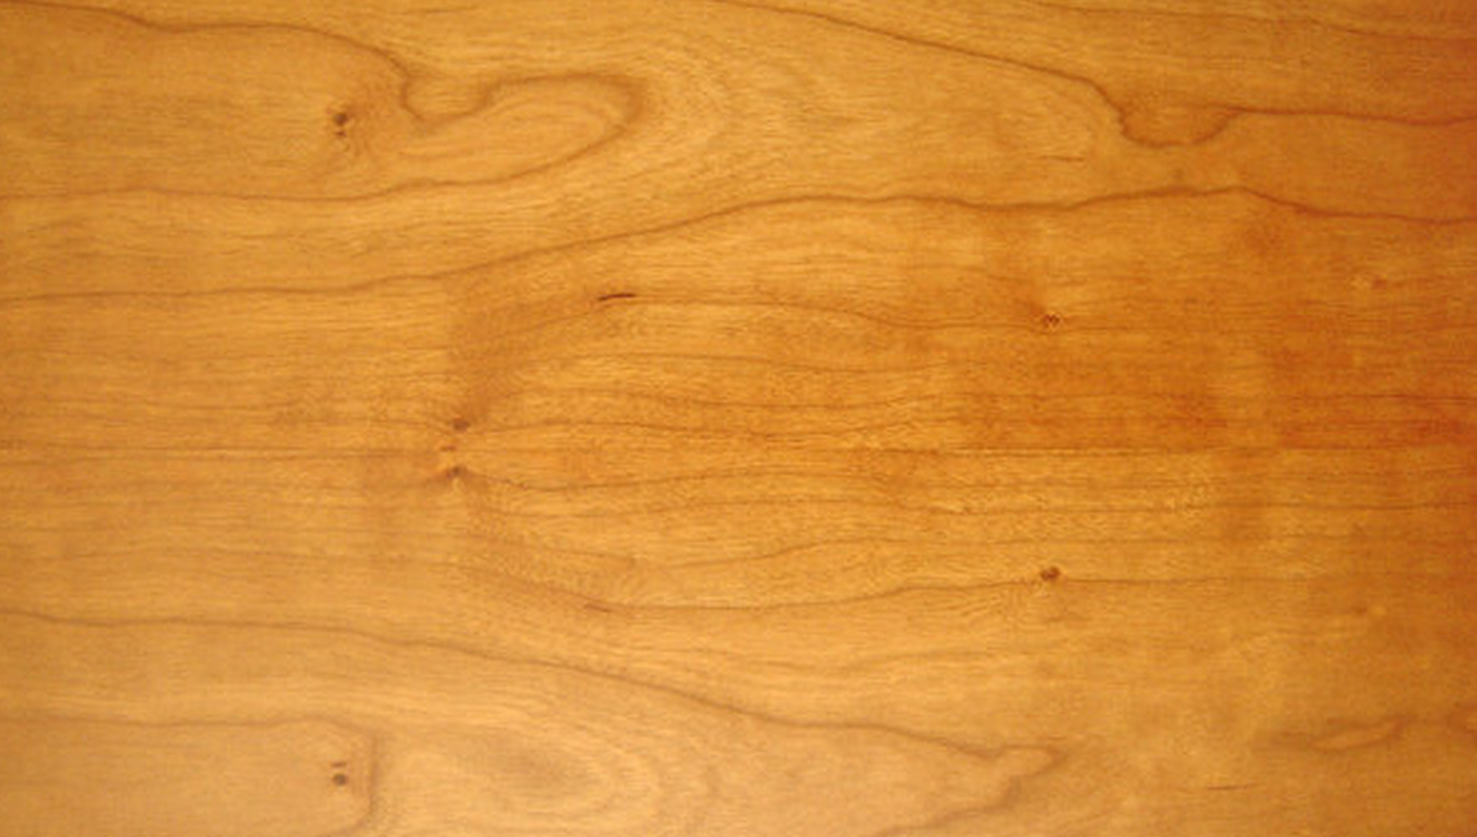
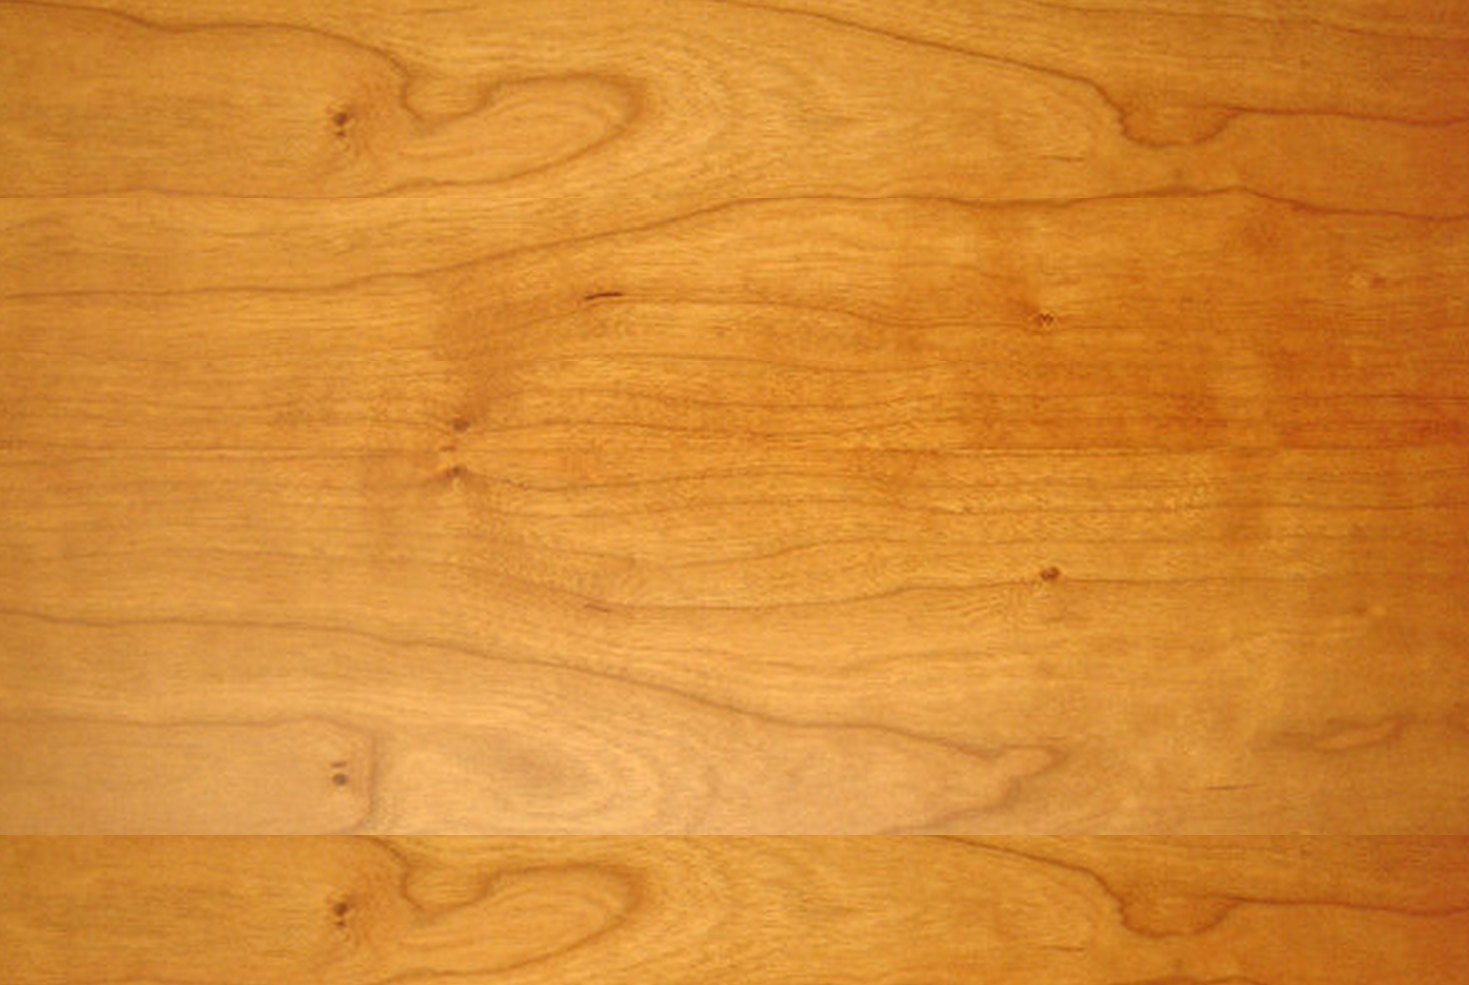
Made movement smoother by updating background once every other frame instead of twice a frame

diff --git a/mellowGUI.py b/mellowGUI.py
@@ -50,9 +50,11 @@ class MellowGUI:
 
     cardz_image_file = 'Image/cardz.png'
     cardz = pygame.image.load(cardz_image_file)
+    cardz_horizontal = pygame.transform.rotate(cardz, 270)
 
     backcard_image_file = 'Image/back.jpg'
     backcard = pygame.image.load(backcard_image_file)
+    backcard_horizontal = pygame.transform.rotate(backcard, 270)
 
     dot_image_file = 'Image/dot.png'
     dot = pygame.image.load(dot_image_file).convert()
@@ -396,8 +398,7 @@ class MellowGUI:
                 self.screen.blit(self.backcard, (x, y),
                                  (self.backIsBlue * self.card_width, 0, self.card_width, self.card_height))
             else:
-                temp = pygame.transform.rotate(self.backcard, 270)
-                self.screen.blit(temp, (x, y),
+                self.screen.blit(self.backcard_horizontal, (x, y),
                                  (0, self.backIsBlue * self.card_width, self.card_height, self.card_width))
         else:
             if rotate90 == 0:
@@ -405,8 +406,7 @@ class MellowGUI:
                     (num % 13) * self.card_width, math.floor(num / 13) * self.card_height, self.card_width,
                     self.card_height))
             else:
-                temp = pygame.transform.rotate(self.cardz, 270)
-                self.screen.blit(temp, (x, y),
+                self.screen.blit(self.cardz_horizontal, (x, y),
                                  (
                     ((4 - 1) - math.floor(num / 13)) * self.card_height,
                     (num % 13) * self.card_width,
@@ -451,9 +451,10 @@ class MellowGUI:
         self.printcard(x, y, 13 * suit + num, 1)
 
     def fill_background(self):
-        for y in range(0, self.screen_height, self.background.get_height()):
-            for x in range(0, self.screen_width, self.background.get_width()):
-                self.screen.blit(self.background, (x, y))
+        #for y in range(0, self.screen_height, self.background.get_height()):
+        #    for x in range(0, self.screen_width, self.background.get_width()):
+        #        self.screen.blit(self.background, (x, y))
+        self.screen.blit(self.background, (0, 0))
 
     def printSouthCards(self, mx, my):
         currentX = self.getXCordFirstCardNorthSouth(self.southCards)
@@ -761,7 +762,24 @@ def main(connection):
 
     pygame.event.set_allowed([QUIT, MOUSEBUTTONDOWN, MOUSEBUTTONUP])
 
+    #print background:
+    mellowGUI.fill_background()
+
+    mellowGUI.screen.blit(mellowLogo, (0, 0, 500, 500), (0, 0, 500, 500))
+    mellowGUI.screen.blit(versNumber, (20, 50, 500, 500), (0, 0, 500, 500))
+
+    # TODO: Chat box:
+    pygame.draw.rect(mellowGUI.screen, mellowGUI.WHITE,
+                     [(6 * mellowGUI.width) / 8, (4 * mellowGUI.height) / 5 + 10, 300, 200])
+
+    mellowGUI.printScore()
+    #end print background
+
+    iter = 0
+
     while 1:
+
+        iter = iter + 1
 
         # React to user events:
         for event in pygame.event.get():
@@ -787,16 +805,18 @@ def main(connection):
 
         # print Stuff:
 
-        mellowGUI.fill_background()
+        # Try printing background every other frame to make the movements smoother???
+        if iter % 2 == 0:
+            mellowGUI.fill_background()
 
-        mellowGUI.screen.blit(mellowLogo, (0, 0, 500, 500), (0, 0, 500, 500))
-        mellowGUI.screen.blit(versNumber, (20, 50, 500, 500), (0, 0, 500, 500))
+            mellowGUI.screen.blit(mellowLogo, (0, 0, 500, 500), (0, 0, 500, 500))
+            mellowGUI.screen.blit(versNumber, (20, 50, 500, 500), (0, 0, 500, 500))
 
-        # TODO: Chat box:
-        pygame.draw.rect(mellowGUI.screen, mellowGUI.WHITE,
-                         [(6 * mellowGUI.width) / 8, (4 * mellowGUI.height) / 5 + 10, 300, 200])
+            # TODO: Chat box:
+            pygame.draw.rect(mellowGUI.screen, mellowGUI.WHITE,
+                             [(6 * mellowGUI.width) / 8, (4 * mellowGUI.height) / 5 + 10, 300, 200])
 
-        mellowGUI.printScore()
+            mellowGUI.printScore()
 
         mellowGUI.printSouthCards(mx, my)
         mellowGUI.printWestCards()
